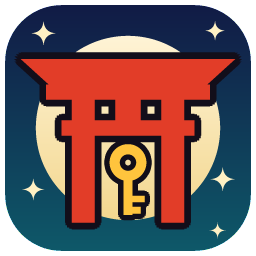
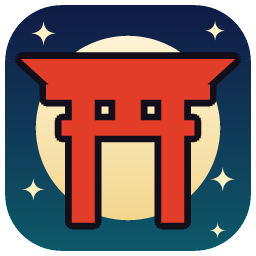
Иконка: убран ключ, в проёме ворот видна луна

Changed region(s): [[0.4062, 0.5312, 0.5938, 0.875]]

diff --git a/tools/genicon/main.go b/tools/genicon/main.go
@@ -1,5 +1,5 @@
-// genicon рисует иконку repoinit — «ночные врата и ключ»: красные тории
-// на фоне луны, звёзды и золотой ключ в проёме ворот (ключ = доступ через врата).
+// genicon рисует иконку repoinit — «ночные врата»: красные тории
+// на фоне луны и звёзды по углам.
 //
 // Фирменный концепт серии иконок описан в F:\style\icons\README.md.
 // Неизменны: скруглённый квадрат, геометрия тории, светило по центру,
@@ -33,8 +33,7 @@ var (
 	moonBot   = color.RGBA{0xf3, 0xd7, 0x8f, 255}
 	starColor = color.RGBA{0xff, 0xf1, 0xc4, 255}
 	toriiFill = color.RGBA{0xe2, 0x3d, 0x28, 255} // киноварь — классический цвет тории
-	outline   = color.RGBA{0x12, 0x0e, 0x1a, 255} // тёмная обводка ворот и ключа
-	keyFill   = color.RGBA{0xff, 0xc4, 0x3d, 255} // золото
+	outline   = color.RGBA{0x12, 0x0e, 0x1a, 255} // тёмная обводка ворот
 )
 
 // --- Фирменная геометрия (НЕ менять — это узнаваемость серии). ---
@@ -57,15 +56,6 @@ func inTorii(p pt) bool {
 		inRect(p, 0.45, 0.39, 0.55, 0.47) // гакудзука — табличка между балками
 }
 
-// --- Символ приложения: ключ в проёме ворот (между столбами, под нуки). ---
-
-func inKey(p pt) bool {
-	bow := inCircle(p, 0.5, 0.635, 0.072) && !inCircle(p, 0.5, 0.635, 0.032) // кольцо
-	shaft := inRect(p, 0.482, 0.69, 0.518, 0.84)
-	teeth := inRect(p, 0.518, 0.765, 0.565, 0.79) || inRect(p, 0.518, 0.808, 0.55, 0.835)
-	return bow || shaft || teeth
-}
-
 // Звёзды — четырёхлучевые искры вместо лепестков сакуры: {x, y, размер}.
 var stars = [][3]float64{
 	{0.17, 0.13, 0.055},
@@ -82,7 +72,7 @@ func inStar(p pt, cx, cy, s float64) bool {
 }
 
 // shade возвращает цвет точки и признак "внутри иконки".
-// Слои снизу вверх: небо → луна → звёзды → (обводка+)тории → (обводка+)ключ.
+// Слои снизу вверх: небо → луна → звёзды → (обводка+)тории.
 func shade(p pt, size int) (color.RGBA, bool) {
 	if !inBadge(p) {
 		return color.RGBA{}, false
@@ -101,10 +91,6 @@ func shade(p pt, size int) (color.RGBA, bool) {
 	// Толщина обводки — не тоньше ~1.4 пикселя, иначе на 16 px она исчезнет.
 	r := math.Max(0.026, 1.4/float64(size))
 	switch {
-	case inKey(p):
-		return keyFill, true
-	case near(p, r*0.8, inKey):
-		return outline, true
 	case inTorii(p):
 		return toriiFill, true
 	case near(p, r, inTorii):
